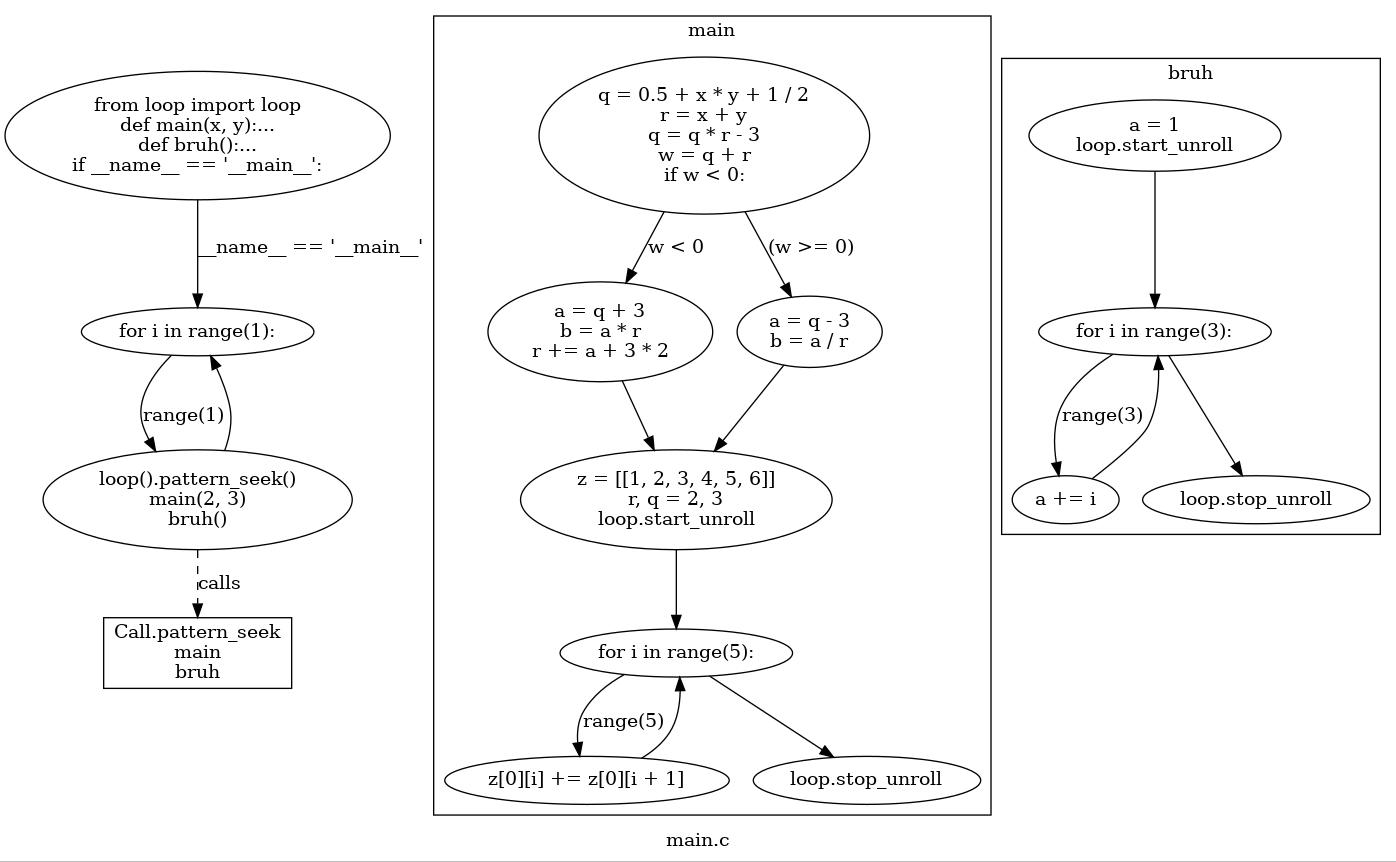
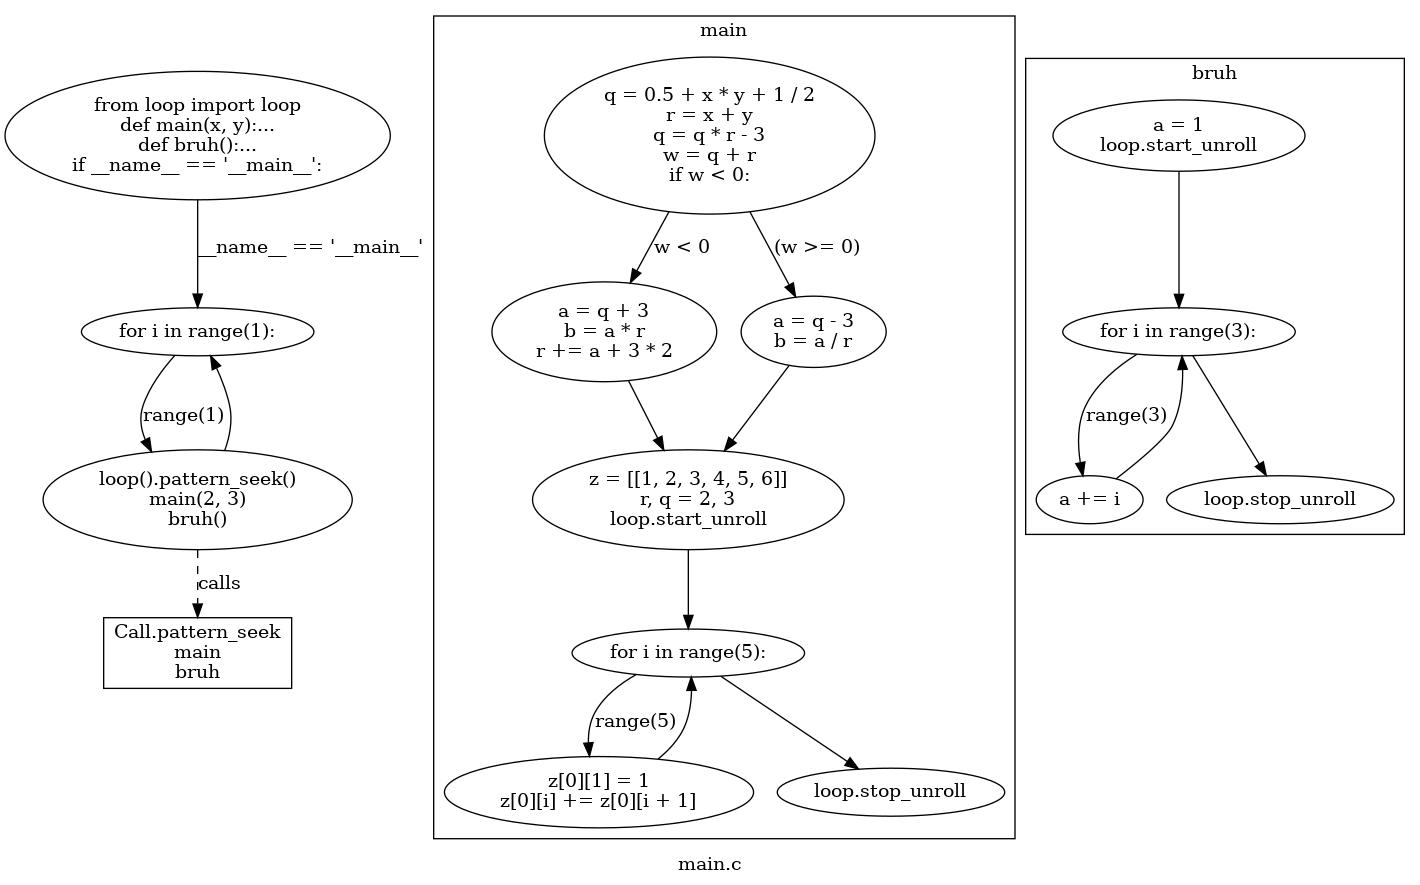
working on changes to dfg_algo

diff --git a/src/dfg_algo.py b/src/dfg_algo.py
@@ -155,10 +155,10 @@ def eval_expr(expr, graph, node):
     elif ASTUtils.isSubscript(expr):
         #print("visiting subscript")
         # ignoring the index for now
-        name_id = eval_expr(expr.value, graph, node)
+        #name_id = eval_expr(expr.value, graph, node)
         sub_id = set_id()
         make_node(graph, node, sub_id, astor.to_source(expr)[:-1], type(expr.ctx), "Regs")
-        make_edge(graph, node, name_id[0], sub_id)
+        #make_edge(graph, node, name_id[0], sub_id)
         return [sub_id]
     elif ASTUtils.isStarred(expr):
         return
@@ -336,9 +336,15 @@ def dfg_per_node(node):
     i = len(node_to_symbols[node])-1
     while i >= 0:
         if node_to_symbols[node][i].read:
+            name = node_to_symbols[node][i].value
+            if name.find('[') != -1:
+                name = name[:name.find('[')]
             j = i-1
             while j >= 0:
-                if node_to_symbols[node][j].write and (node_to_symbols[node][j].value == node_to_symbols[node][i].value):
+                other_name = node_to_symbols[node][j].value
+                if other_name.find('[') != -1:
+                    other_name = other_name[:other_name.find('[')]
+                if node_to_symbols[node][j].write and (other_name == name):
                     make_edge(graph, node, node_to_symbols[node][j].num_id, node_to_symbols[node][i].num_id)
                     break
                 j -= 1

diff --git a/src/instrumented_files/xformed-testme.py b/src/instrumented_files/xformed-testme.py
@@ -63,6 +63,9 @@ def main(x, y):
     instrument_read(loop, 'loop').start_unroll
     for i_1 in range(5):
         print(8, 19)
+        z_1[0][1] = 1
+        write_instrument_read_sub(z_1[0], 'z_1[0]', 1, None, None, False)
+        print(8, 20)
         z_1[0][instrument_read(i_1, 'i_1')] += instrument_read_sub(
             instrument_read_sub(instrument_read(z_1, 'z_1'), 'z_1', 0, None,
             None, False), 'z_1[0]', instrument_read(i_1, 'i_1') + 1, None,
@@ -75,14 +78,14 @@ def main(x, y):
 
 def bruh():
     print('enter scope 2')
-    print(1, 22)
-    print(12, 23)
+    print(1, 23)
+    print(12, 24)
     a_2 = 1
     write_instrument_read(a_2, 'a_2')
     print('malloc', sys.getsizeof(a_2), 'a_2')
     instrument_read(loop, 'loop').start_unroll
     for i_2 in range(3):
-        print(14, 26)
+        print(14, 27)
         a_2 += instrument_read(i_2, 'i_2')
         write_instrument_read(a_2, 'a_2')
     instrument_read(loop, 'loop').stop_unroll

diff --git a/src/instrumented_files/xformedpre-testme.py b/src/instrumented_files/xformedpre-testme.py
@@ -35,6 +35,8 @@ def main(x, y):
     loop.start_unroll
     for i_1 in range(5):
         print(8, 19)
+        z_1[0][1] = 1
+        print(8, 20)
         z_1[0][i_1] += z_1[0][i_1 + 1]
     loop.stop_unroll
     print('exit scope 1')
@@ -42,12 +44,12 @@ def main(x, y):
 
 def bruh():
     print('enter scope 2')
-    print(1, 22)
-    print(12, 23)
+    print(1, 23)
+    print(12, 24)
     a_2 = 1
     loop.start_unroll
     for i_2 in range(3):
-        print(14, 26)
+        print(14, 27)
         a_2 += i_2
     loop.stop_unroll
     print('exit scope 2')

diff --git a/src/benchmarks/pictures/testme.py b/src/benchmarks/pictures/testme.py
@@ -36,7 +36,8 @@ loop.start_unroll
 "]
 		7 [label="for i in range(5):
 "]
-		8 [label="z[0][i] += z[0][i + 1]
+		8 [label="z[0][1] = 1
+z[0][i] += z[0][i + 1]
 "]
 		8 -> 7 [label=""]
 		7 -> 8 [label="range(5)"]

diff --git a/src/benchmarks/models/testme.py b/src/benchmarks/models/testme.py
@@ -16,6 +16,7 @@ def main(x, y):
     r, q = 2, 3
     loop.start_unroll
     for i in range(5):
+        z[0][1] = 1
         z[0][i] += z[0][i+1]
     loop.stop_unroll
 
